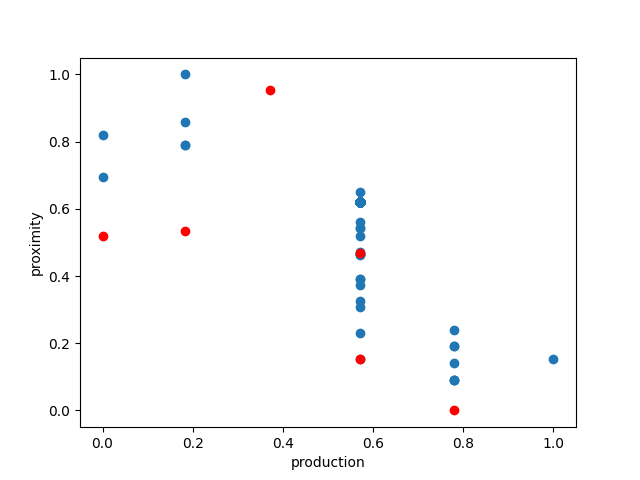
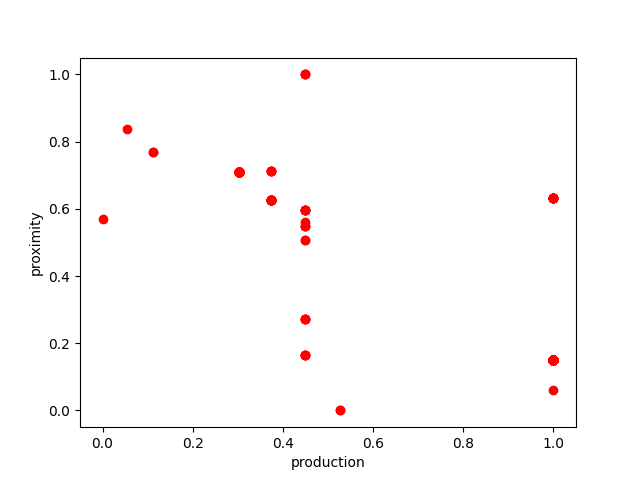
Correction de certaines méthodes  + elimination des solutions doublouns  + implémentation de la selection2

diff --git a/main.py b/main.py
@@ -178,7 +178,7 @@ def create_2D_projection_image(scores, pareto_scores):
         for j in range(i+1, 3):
             fig = plt.figure()
             ax2d = fig.add_subplot(111)
-            ax2d.scatter(scores[j], scores[i])
+            #ax2d.scatter(scores[j], scores[i])
             ax2d.scatter(pareto_scores[j], pareto_scores[i], c="r")
             ax2d.set_xlabel(f'{names[j]}')
             ax2d.set_ylabel(f'{names[i]}')
@@ -259,11 +259,13 @@ def reproduction(parent1, parent2):
             child1.append(parcel)
         else:
             child2.append(parcel)
-    
+        
+    # Si les solutions enfants dépasse le budget, il faut rejeter certaines parcelles
     while cost_bought_plot(child1) > BUDGET:
         child1.pop() 
     while cost_bought_plot(child2) > BUDGET:
-        child2.pop() 
+        child2.pop()
+    
     
     # Si l'enfant est vide, ne pas effectuer la reproduction
     if not child1 or not child2:
@@ -276,7 +278,7 @@ def reproduction_population(population):
 
     Args:
         population: set of solutions
-    """
+    """        
     for i in range(0, len(population), 2):
         # Selection of the parents
         parent1 = population[np.random.randint(len(population)-1)]
@@ -287,7 +289,7 @@ def reproduction_population(population):
             population.append(child1)
             population.append(child2)
     return population
-
+            
 
 def mutation_population(population):
     """ Generate a mutation in the population in order to add randomless to the algorithm
@@ -319,9 +321,13 @@ def selection(population, population_size):
     """ Selects the first half of the most optimal solutions in the current population
     """
     population_ac_score = population_with_final_score(population)
+    
     # tri la population par le plus petit score
     sorted_population_ac_score = sorted(
         population_ac_score, key=lambda x: x[1], reverse=False)
+    
+    # Eliminer les doublons
+    eliminate_doubles(sorted_population_ac_score)
 
     # Ajouter à la liste le meilleur score afin de plotter par après
     best_scores.append(sorted_population_ac_score[0][1])
@@ -329,8 +335,59 @@ def selection(population, population_size):
     # retourne la moitié de la population avec le meilleur score
     sorted_population = [sorted_population_ac_score[i][0]
                          for i in range(len(sorted_population_ac_score))]
+       
+    # ajouter des solutions aléatoires pour avoir la bonne taille
+    while len(sorted_population) < population_size:
+        new_solution = solution_generator()
+        sorted_population.append(new_solution)
+    
     return sorted_population[:population_size]
 
+def selection2(population, population_size):
+    pop_avec_norm_score = population_with_normalized_score(population)
+    # Supprimer solutions doublons
+    for sol1_ac_score in pop_avec_norm_score:
+        for sol2_ac_score in pop_avec_norm_score:
+            if sol2_ac_score != sol1_ac_score and sol1_ac_score[1] - sol2_ac_score[1] < 0.001 and sol1_ac_score[1] - sol2_ac_score[1] > -0.001:
+                pop_avec_norm_score.remove(sol1_ac_score)
+                break
+
+    filtered_population = [pop_avec_norm_score[i][0] for i in range(len(pop_avec_norm_score)-1)]
+    # Ajouter des solutions aléatoire pour avoir la bonne taille
+    while len(filtered_population) < population_size:
+        filtered_population.append(solution_generator())
+        
+    # Réévaluer la population actuelle
+    population_avec_score_separe = population_with_normalized_score(filtered_population)
+    # Trouver solutions dominantes par Pareto
+    population_ac_score_pareto = []
+    for solution1 in population_avec_score_separe:
+        score_pareto = 0
+        for solution2 in population_avec_score_separe:
+            if is_dominant(solution1, solution2):
+                score_pareto += 1
+        population_ac_score_pareto.append((solution1[0], score_pareto))
+    sorted_pareto_liste = sorted(population_ac_score_pareto, key=lambda x: x[1], reverse=True)
+    
+    # Ajouter le meilleur score pour plotter
+    best_scores.append(sorted_pareto_liste[0][1])
+    
+    # Selectionner les meilleures solutions par dominance de Pareto
+    sorted_liste = []
+    for solution3 in sorted_pareto_liste:
+        sorted_liste.append(solution3[0])
+    return sorted_liste[:population_size]
+
+def eliminate_doubles(population_avec_final_score_trié):
+    # sort the list based on the float value in each element
+    population_avec_final_score_trié.sort(key=lambda x: x[1])
+    # iterate over the list and delete elements with the same score
+    scores = set()
+    for item in population_avec_final_score_trié:
+        if item[1] in scores:
+            population_avec_final_score_trié.remove(item)
+        else:
+            scores.add(item[1])
 
 def genetic_algorithm(initial_population_size, iteration):
     """ Genetic Algorithm:
@@ -346,13 +403,16 @@ def genetic_algorithm(initial_population_size, iteration):
     for i in tqdm(range(iteration)):
         nouvelle_population = reproduction_population(nouvelle_population)
         nouvelle_population = mutation_population(nouvelle_population)
-        nouvelle_population = selection(
+        nouvelle_population = selection2(
             nouvelle_population, initial_population_size)
     print(" Solution Cost: € {:,}".format(
         cost_bought_plot(nouvelle_population[0])))
     plot_solution(nouvelle_population[0])
     plot_pareto(nouvelle_population)
-    print(nouvelle_population)
+
+    # Tester s'il y a des doublons dans la solution finale
+    find_double_sublists(nouvelle_population)
+    
     return nouvelle_population
 
 
@@ -460,9 +520,9 @@ def is_dominant(solution, other_solution):
     Returns:
     bool: True if solution is dominant over other_solution, False otherwise.
     """
-    if solution[1] > other_solution[1] or solution[2] > other_solution[2] or solution[3] > other_solution[3]:
-        return False
-    return True
+    if solution[1] < other_solution[1] and solution[2] < other_solution[2] and solution[3] < other_solution[3]:
+        return True
+    return False
 
 
 def get_pareto_frontier(solutions):
@@ -484,6 +544,13 @@ def get_pareto_frontier(solutions):
             pareto_frontier.append(solution)
     return pareto_frontier, remaining_solutions
 
+def find_double_sublists(lst):
+    double_sublists = []
+    for i in range(len(lst)):
+        for j in range(i+1, len(lst)):
+            if len(set(lst[i]+lst[j])) == 2:
+                double_sublists.append([lst[i], lst[j]])
+    print(double_sublists)
 
 if __name__ == "__main__":
     """1: Loading the problem's maps"""
@@ -501,7 +568,7 @@ if __name__ == "__main__":
     """2: INITIAL POPULATION """
 
     # Generate initial population randomly ⇾ cover as much as possible the solution space
-    population_amelioree = genetic_algorithm(500, 500)
+    population_amelioree = genetic_algorithm(300, 500)
 
     """4: Pareto Frontier"""
 
